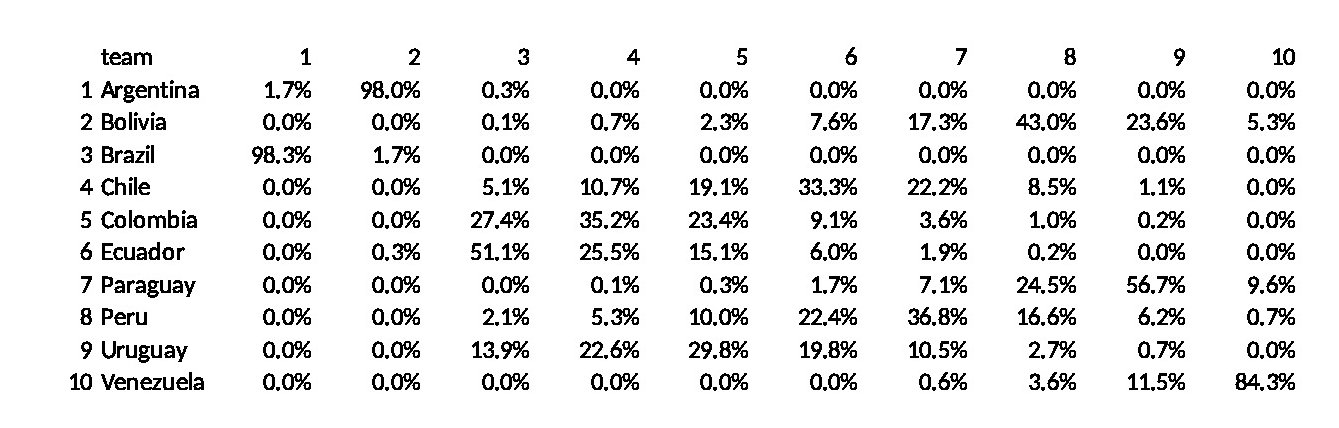
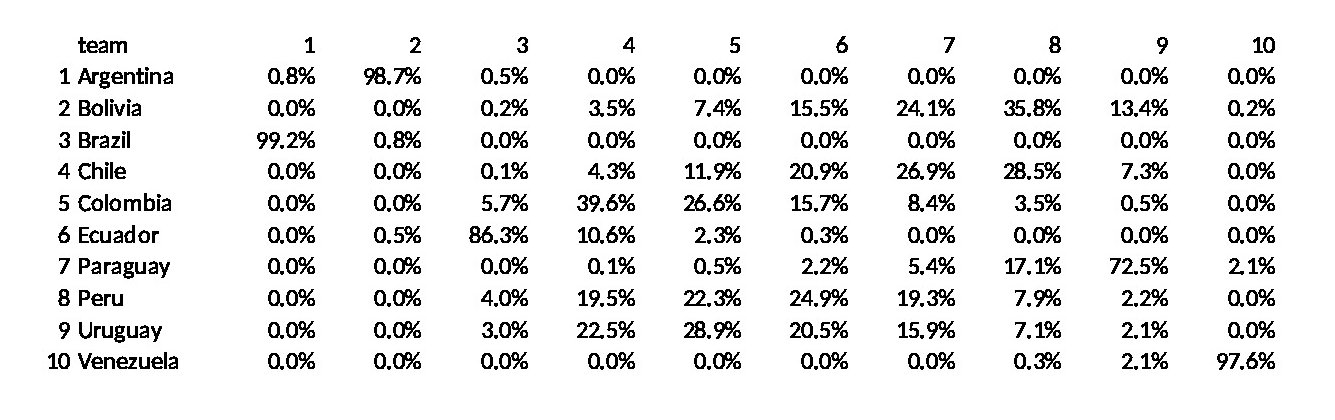
Updating after matchday 14

diff --git a/README.md b/README.md
@@ -10,7 +10,7 @@ This project is just a modification of [2017-playoff-probabilities](https://gith
 
 ## Current probabilities
 
-These are the current probabilities (11/15/2021) after match day 13 and 1 match pending between Brazil and Argentina.
+These are the current probabilities (11/17/2021) after match day 14 and 1 match pending between Brazil and Argentina.
 
 ### Matches
 
